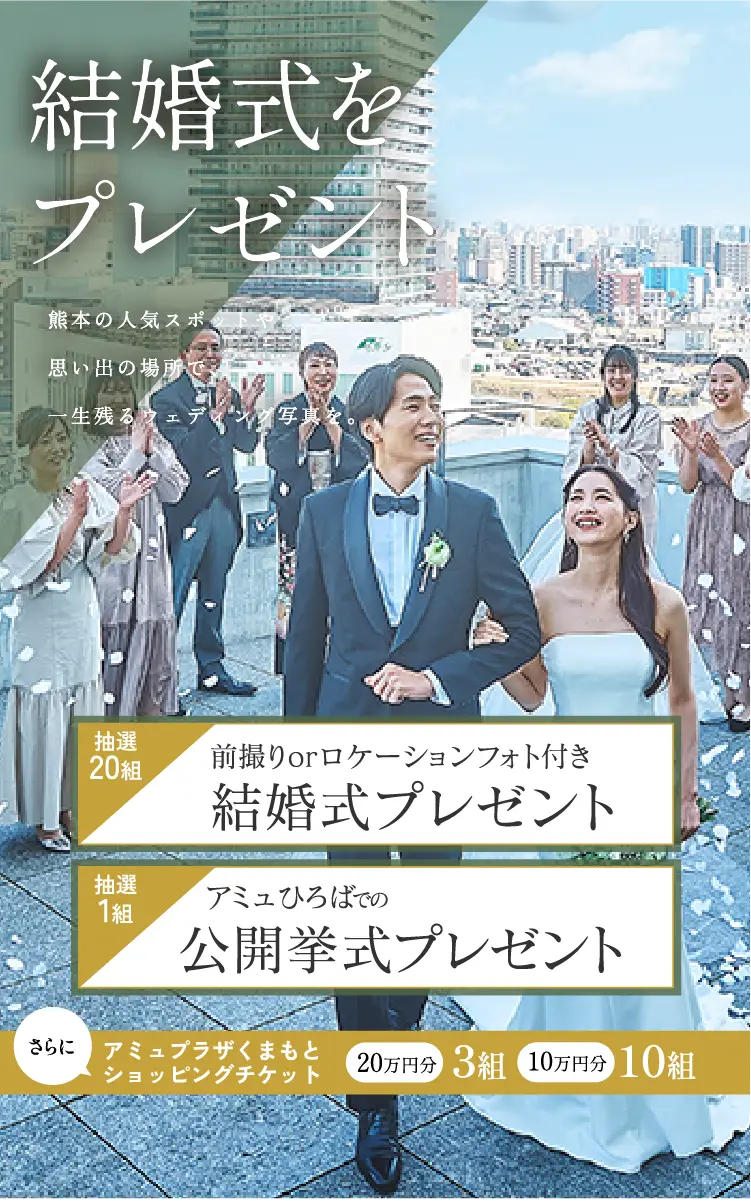
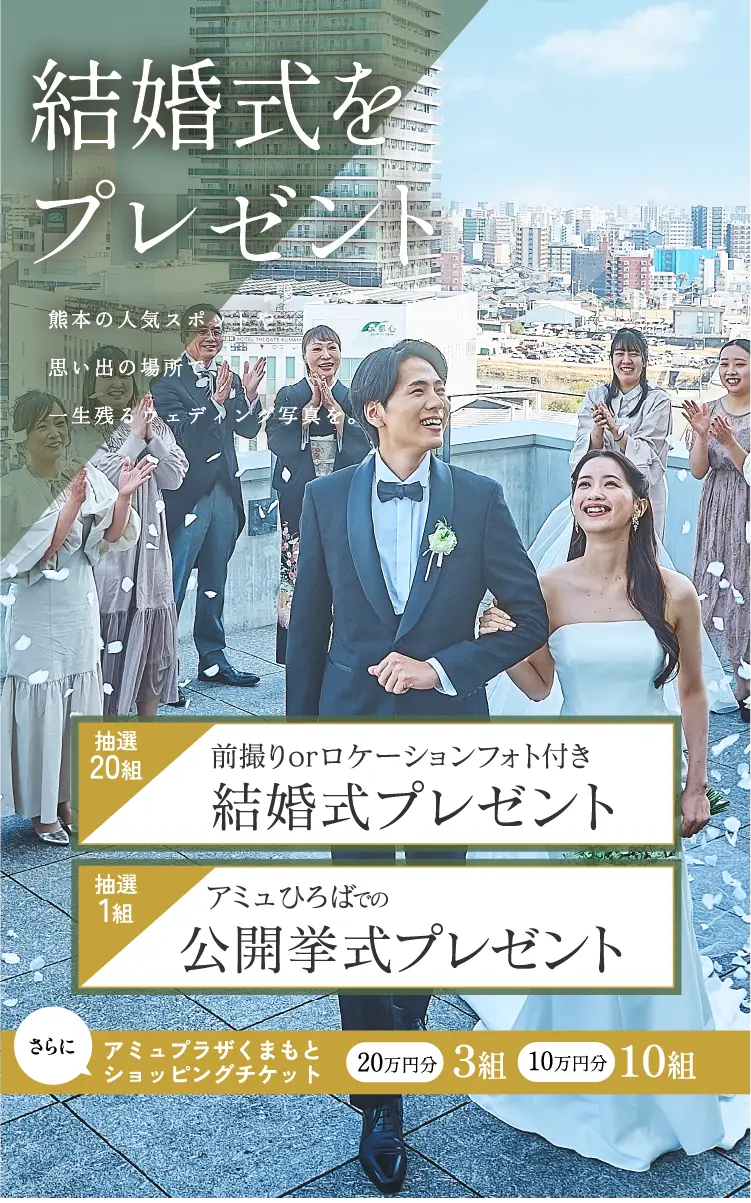
画像が粗いため修正

diff --git a/public/ftk-amu/index.html b/public/ftk-amu/index.html
@@ -33,7 +33,7 @@
   <h1 class="sr-only">結婚式をプレゼント。熊本の人気スポットや思い出の場所で、一生残るウェディング写真を。抽選20組 前撮りorロケーションフォト付き結婚式プレゼント／抽選1組 アミュひろばでの公開挙式プレゼント／さらに アミュプラザくまもと ショッピングチケット 20万円分3組・10万円分10組</h1>
   <div class="fade-slider fv-slider" data-slider data-dots="off">
     <img class="is-active" src="./_assets/img/slider/fv.webp" alt="" width="751" height="1203" fetchpriority="high" decoding="async">
-    <img data-src="./_assets/img/slider/fv-2.webp" alt="" width="751" height="1203" decoding="async">
+    <img data-src="./_assets/img/slider/fv-2.webp?1" alt="" width="751" height="1203" decoding="async">
     <img data-src="./_assets/img/slider/fv-3.webp" alt="" width="751" height="1203" decoding="async">
   </div>
   <div class="fv-cta"><a class="btn-cta js-cta" href="#form" data-placement="fv">プレゼントキャンペーンに<br><b>応募する</b></a></div>
